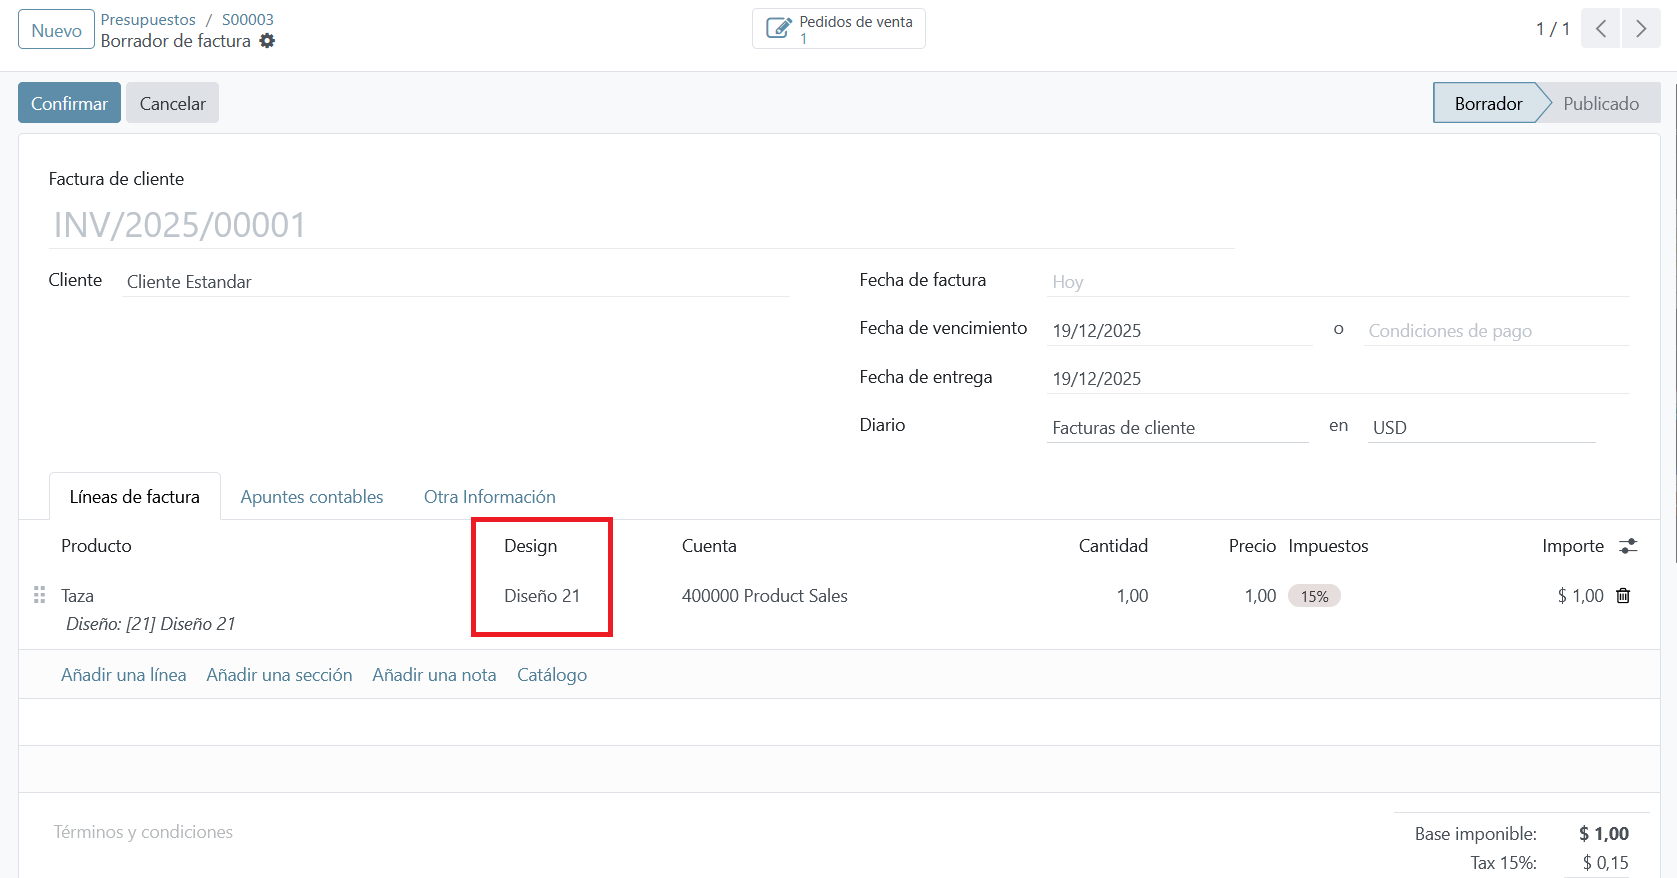
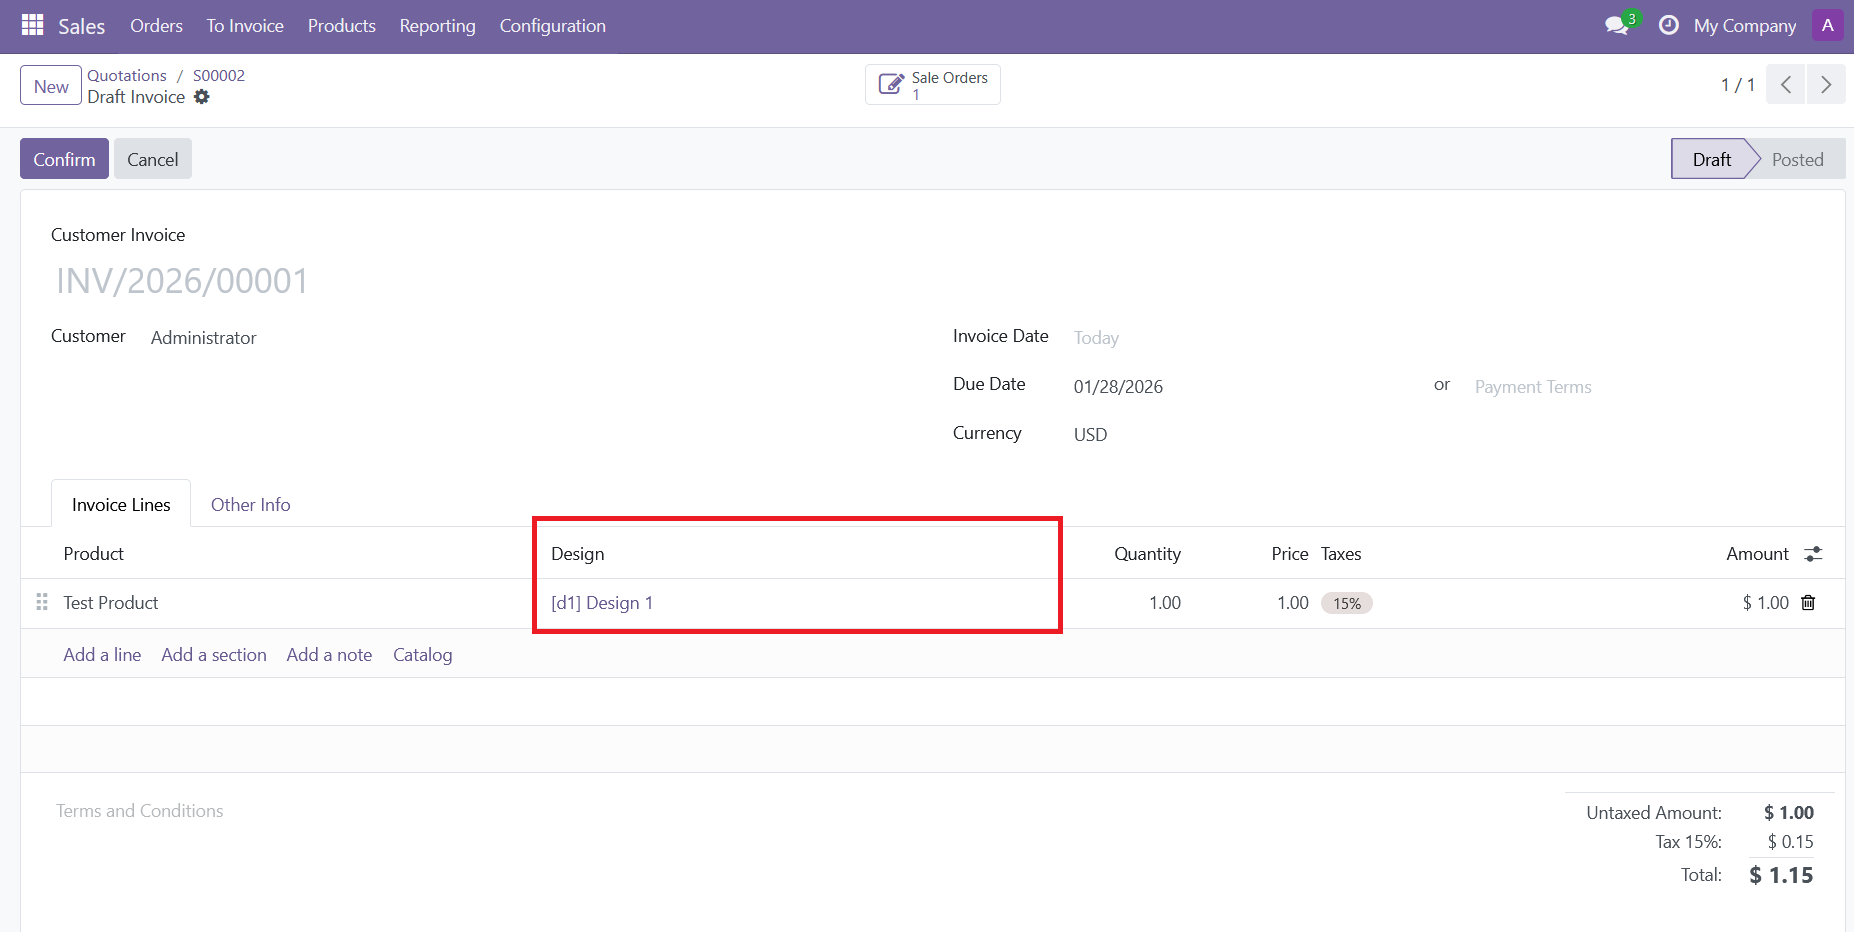
[UPD] README

diff --git a/e_design_account/static/description/index.html b/e_design_account/static/description/index.html
@@ -7,7 +7,7 @@
                     eAccountDesign
                 </h1>
                 <p class="lead mb-4">
-                    Ensures design information in account move lines.
+                    Ensures design information in account move lines. Share design from sale order line to account move line
                 </p>
             </div>
             <div class="col-md-4 text-center">
@@ -44,7 +44,7 @@
 
 <footer class="bg-primary py-4 mt-5">
     <div class="container text-center">
-        <a href="https://github.com/acevedoesteban999/eAddons" class="btn btn-light btn-sm me-2">
+        <a href="https://github.com/acevedoesteban999/eAddons/e_design_account" class="btn btn-light btn-sm me-2">
             Documantation
         </a>
     </div>

diff --git a/e_design_account/README.md b/e_design_account/README.md
@@ -1,6 +1,6 @@
 # eAccountDesign
 #### Account Move & Design Integration
-This module ensures design information in account move lines.
+This module ensures design information in account move lines. Share design from sale order line to account move line
 
 **Design displayed on Account Move Line**
 ![IAMGE](static/description/assets/screenshots/1.png)
